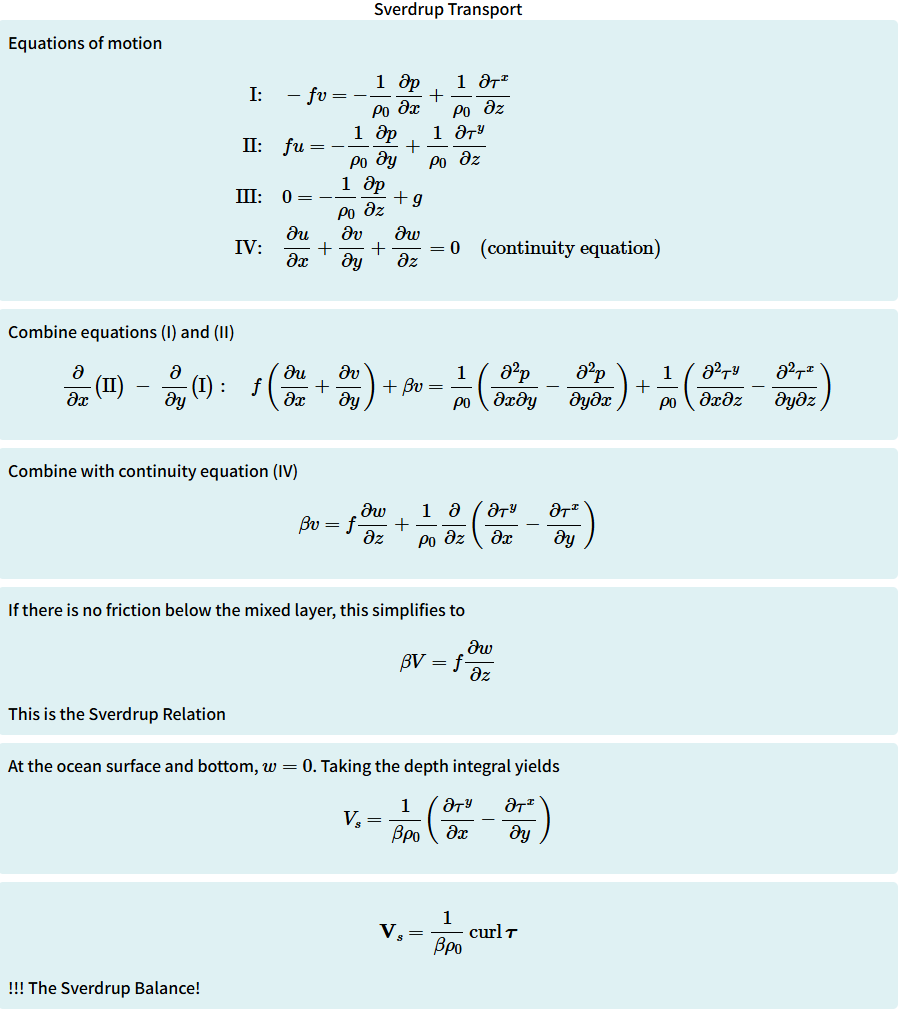
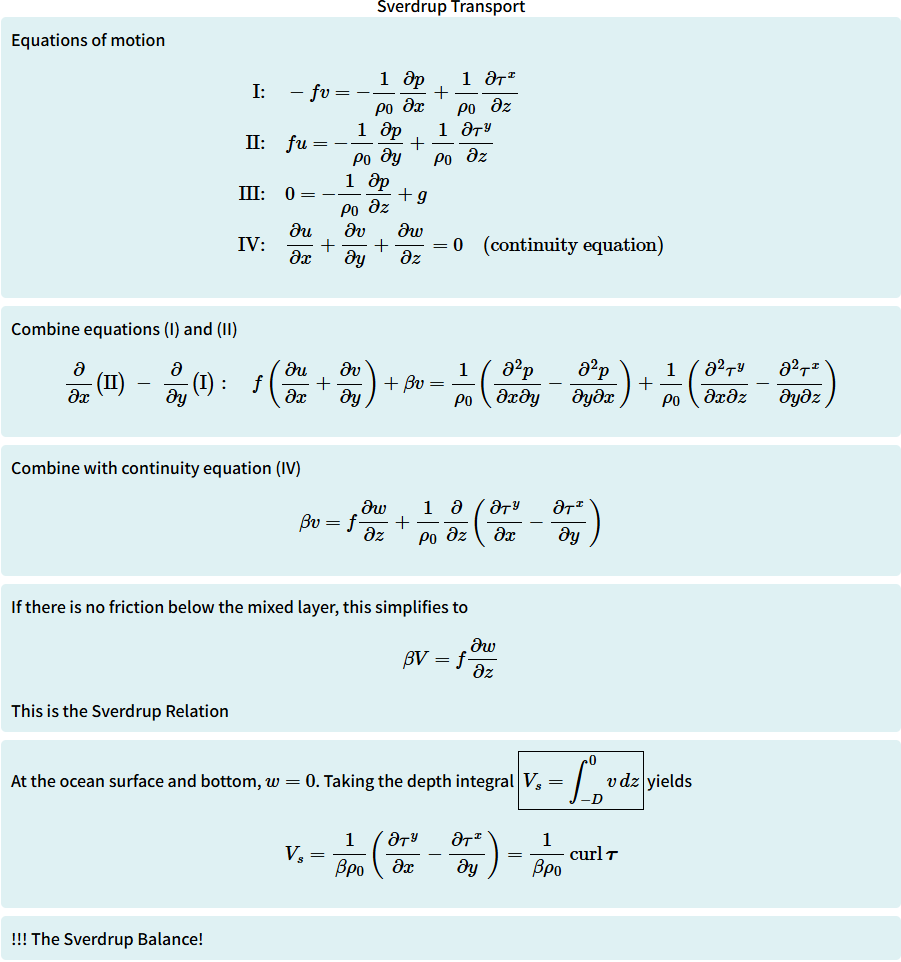
Update

diff --git a/Lecture5ASlide31.html b/Lecture5ASlide31.html
@@ -157,59 +157,40 @@ window.addEventListener('resize', scaleContainer);
 
 
 <div class="description">
-Equations of motion
-\begin{align}
-\text{I:} \quad & -fv = -\frac{1}{\rho_0} \frac{\partial p}{\partial x} + \frac{1}{\rho_0} \frac{\partial \tau^x}{\partial z} \\
-\text{II:} \quad & fu = -\frac{1}{\rho_0} \frac{\partial p}{\partial y} + \frac{1}{\rho_0} \frac{\partial \tau^y}{\partial z} \\
-\text{III:} \quad & 0 = -\frac{1}{\rho_0} \frac{\partial p}{\partial z} + g \\
-\text{IV:} \quad & \frac{\partial u}{\partial x} + \frac{\partial v}{\partial y} + \frac{\partial w}{\partial z} = 0 
-\quad \text{(continuity equation)}
-\end{align}
+The Sverdrup relation is one
+of the cornerstones of dynamical oceanography. We can use it to derive a simple
+expression for the transport of ocean gyres
+<img src="Figures/Lecture5A_WindOceanGyres.png" alt="WindOceanGyres" style="max-width: 100%; height: 100%;">
 </div>
 
-<div class="description">
-Combine equations (I) and (II)
-\begin{align}
-\frac{\partial}{\partial x} \big(\text{II}\big) \;-\; \frac{\partial}{\partial y} \big(\text{I}\big): \quad 
-f \left( \frac{\partial u}{\partial x} + \frac{\partial v}{\partial y} \right) + \beta v 
-= \frac{1}{\rho_0} \left( \frac{\partial^2 p}{\partial x \partial y} - \frac{\partial^2 p}{\partial y \partial x} \right) 
-+ \frac{1}{\rho_0} \left( \frac{\partial^2 \tau^y}{\partial x \partial z} - \frac{\partial^2 \tau^x}{\partial y \partial z} \right)
-\end{align}
+
+<div class="image-container">
+<img src="Figures/Lecture5A_GillGeostrophicWindEkman.png" alt="GillGeostrophicWindEkman" style="max-width: 59%; height: 100%;">
+<p>The geostrophic wind gives a cyclonic rotation around the low pressure centre. Ekman transport in the atmosphere is inward and associated pumping velocity is upward. The Ekman mass transport in the oceanic boundary layer is equal and opposite, so there is an outward mass transport and upward pumping velocity in the ocean. This tends to raise the thermocline.</p>
 </div>
 
-<div class="description">
-Combine with continuity equation (IV)
-\begin{align}
-\beta v = f \frac{\partial w}{\partial z} 
-+ \frac{1}{\rho_0} \frac{\partial}{\partial z} 
-\left( \frac{\partial \tau^y}{\partial x} - \frac{\partial \tau^x}{\partial y} \right)
-\end{align}
-</div>
 
-<div class="description">
-If there is no friction below the mixed layer, this simplifies to
-\begin{align}
-\beta V = f \frac{\partial w}{\partial z}
-\end{align}
-This is the Sverdrup Relation
-</div>
 
-<div class="description">
-At the ocean surface and bottom, \( w = 0 \).  
-Taking the depth integral \(\boxed{V_s = \int_{-D}^{0} v \, dz}\) yields
-\begin{align}
-V_s = \frac{1}{\beta \rho_0} 
-\left( \frac{\partial \tau^y}{\partial x} - \frac{\partial \tau^x}{\partial y} \right) = \frac{1}{\beta \rho_0} \, \text{curl} \, \boldsymbol{\tau} 
-\end{align}
-</div>
 
-<div class="description">
-!!! The Sverdrup Balance!
-</div>
+        <!-- Footnote Section -->
+        <div class="footnote-container">
+            <hr class="footnote-line">
+            <p class="footnote">
+                <sup>1</sup> Marshall J., Plumb R. A., . (2008). Atmosphere, ocean, and climate dynamics. Amsterdam: Elsevier Academic Press.
+            </p>
+            <p class="footnote">
+                <sup>2</sup> Adrian E. Gill. 1982. Atmosphere-Ocean Dynamics. Academic Press, 1st edition.
+            </p>
+            <p class="footnote">
+                <sup>3</sup>  Clare Helen Heaviside. 2009. Coupling of oceanic and atmospheric
+heat transport in the tropics.
+
+            </p>
 
         <!-- Navigation Buttons -->
-        <a href="Lecture5ASlide29.html" class="nav-button left">&#9664;</a>
-        <a href="Lecture5ASlide31.html" class="nav-button right">&#9654;</a>
+        <a href="Lecture5ASlide30.html" class="nav-button left">&#9664;</a>
+        <a href="Lecture5ASlide32.html" class="nav-button right">&#9654;</a>
     </div>
 </body>
 </html>
+

diff --git a/Lecture5ASlide32.html b/Lecture5ASlide32.html
@@ -157,59 +157,57 @@ window.addEventListener('resize', scaleContainer);
 
 
 <div class="description">
-Equations of motion
-\begin{align}
-\text{I:} \quad & -fv = -\frac{1}{\rho_0} \frac{\partial p}{\partial x} + \frac{1}{\rho_0} \frac{\partial \tau^x}{\partial z} \\
-\text{II:} \quad & fu = -\frac{1}{\rho_0} \frac{\partial p}{\partial y} + \frac{1}{\rho_0} \frac{\partial \tau^y}{\partial z} \\
-\text{III:} \quad & 0 = -\frac{1}{\rho_0} \frac{\partial p}{\partial z} + g \\
-\text{IV:} \quad & \frac{\partial u}{\partial x} + \frac{\partial v}{\partial y} + \frac{\partial w}{\partial z} = 0 
-\quad \text{(continuity equation)}
-\end{align}
+$$
+\underbrace{M_x}_{\substack{\text{zonal mass transport in the}\\\text{wind–driven layer}}} 
+= \int_{-D}^{0} \rho u(z) \, dz, 
+\qquad 
+\underbrace{M_y}_{\substack{\text{meridional mass transport in the}\\\text{wind–driven layer}}} 
+= \int_{-D}^{0} \rho v(z) \, dz
+$$
 </div>
 
 <div class="description">
-Combine equations (I) and (II)
-\begin{align}
-\frac{\partial}{\partial x} \big(\text{II}\big) \;-\; \frac{\partial}{\partial y} \big(\text{I}\big): \quad 
-f \left( \frac{\partial u}{\partial x} + \frac{\partial v}{\partial y} \right) + \beta v 
-= \frac{1}{\rho_0} \left( \frac{\partial^2 p}{\partial x \partial y} - \frac{\partial^2 p}{\partial y \partial x} \right) 
-+ \frac{1}{\rho_0} \left( \frac{\partial^2 \tau^y}{\partial x \partial z} - \frac{\partial^2 \tau^x}{\partial y \partial z} \right)
-\end{align}
+Streamfunction representation of volume transport <img src="Figures/Lecture5A_VolumeStreamFunction.png" 
+                alt="VolumeStreamFunction.png" 
+                style="height: 17em; vertical-align: middle;">
+$$
+U = - \frac{\partial \Psi}{\partial y}, 
+\qquad 
+V = \frac{\partial \Psi}{\partial x} 
+$$
 </div>
 
 <div class="description">
-Combine with continuity equation (IV)
-\begin{align}
-\beta v = f \frac{\partial w}{\partial z} 
-+ \frac{1}{\rho_0} \frac{\partial}{\partial z} 
-\left( \frac{\partial \tau^y}{\partial x} - \frac{\partial \tau^x}{\partial y} \right)
-\end{align}
+Integrating westward from the eastern boundary
+$$
+\Psi(x,y) 
+= \frac{1}{\rho_{\text{ref}} \, \beta} 
+\int_{\text{eastern bdy}}^{x} 
+\underbrace{\hat{\mathbf{z}}}_{\substack{\text{vertical}\\\text{unit vector}}} 
+\cdot 
+\underbrace{\left( \nabla \times \boldsymbol{\tau}_{\text{wind}} \right)}_{\substack{\text{curl of}\\\text{wind stress}}} 
+\, dx
+$$
 </div>
 
-<div class="description">
-If there is no friction below the mixed layer, this simplifies to
-\begin{align}
-\beta V = f \frac{\partial w}{\partial z}
-\end{align}
-This is the Sverdrup Relation
-</div>
 
-<div class="description">
-At the ocean surface and bottom, \( w = 0 \).  
-Taking the depth integral \(\boxed{V_s = \int_{-D}^{0} v \, dz}\) yields
-\begin{align}
-V_s = \frac{1}{\beta \rho_0} 
-\left( \frac{\partial \tau^y}{\partial x} - \frac{\partial \tau^x}{\partial y} \right) = \frac{1}{\beta \rho_0} \, \text{curl} \, \boldsymbol{\tau} 
-\end{align}
-</div>
 
-<div class="description">
-!!! The Sverdrup Balance!
-</div>
+
+
+        <!-- Footnote Section -->
+        <div class="footnote-container">
+            <hr class="footnote-line">
+            <p class="footnote">
+                <sup>1</sup> Marshall J., Plumb R. A., . (2008). Atmosphere, ocean, and climate dynamics. Amsterdam: Elsevier Academic Press.
+            </p>
+            <p class="footnote">
+                <sup>2</sup> Robert H. Stewart. (2025). Introduction to Physical Oceanography (Stewart).
+            </p>
 
         <!-- Navigation Buttons -->
-        <a href="Lecture5ASlide29.html" class="nav-button left">&#9664;</a>
-        <a href="Lecture5ASlide31.html" class="nav-button right">&#9654;</a>
+        <a href="Lecture5ASlide31.html" class="nav-button left">&#9664;</a>
+        <a href="Lecture5ASlide33.html" class="nav-button right">&#9654;</a>
     </div>
 </body>
 </html>
+
